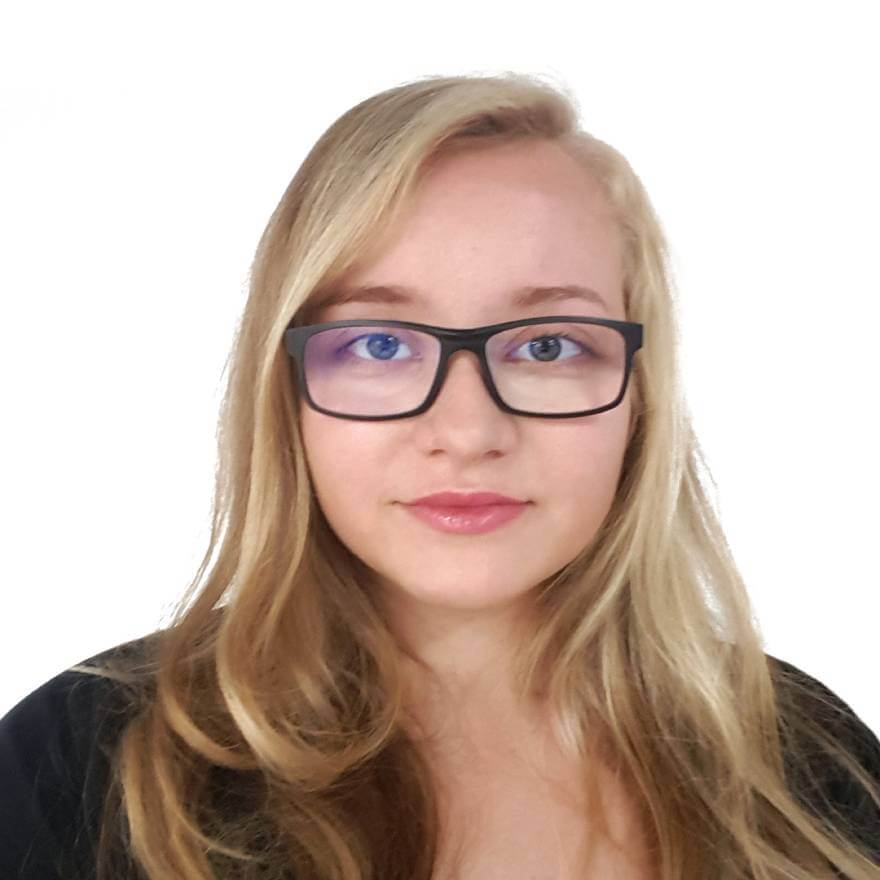
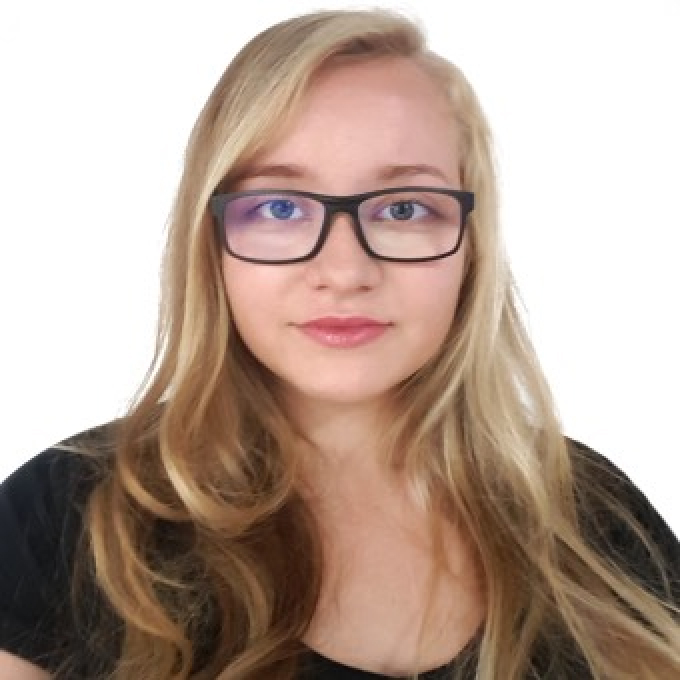
photo changed for comparison

diff --git a/app/components/sections/BoxImageSection/component.tsx b/app/components/sections/BoxImageSection/component.tsx
@@ -29,9 +29,9 @@ const BoxImageSection: React.FC<BoxImageSectionProps> = (props) => {
             />
             <div className="relative mt-16 flex h-fit w-fit shrink-0 grow-0 flex-col gap-1 sm:col-start-2 sm:mt-0 sm:items-start">
               <div className="mr-[12%] flex justify-end sm:mt-7">
-                <div className="relative max-w-[340px] before:absolute before:right-[-12%] before:top-[-12%] before:h-full before:w-full before:border-[3px] before:border-primary-100 sm:max-w-[440px]">
+                <div className="relative max-w-[340px] before:absolute before:right-[-12%] before:top-[-12%] before:h-full before:w-full before:border-[3px] before:border-primary-100 sm:max-w-[440px] border border-neutral-400">
                   <Image
-                    src="/assets/images/ceo_photox2.jpg"
+                    src="/assets/images/about-us.jpg"
                     width={680}
                     height={680}
                     alt={props.alt}
